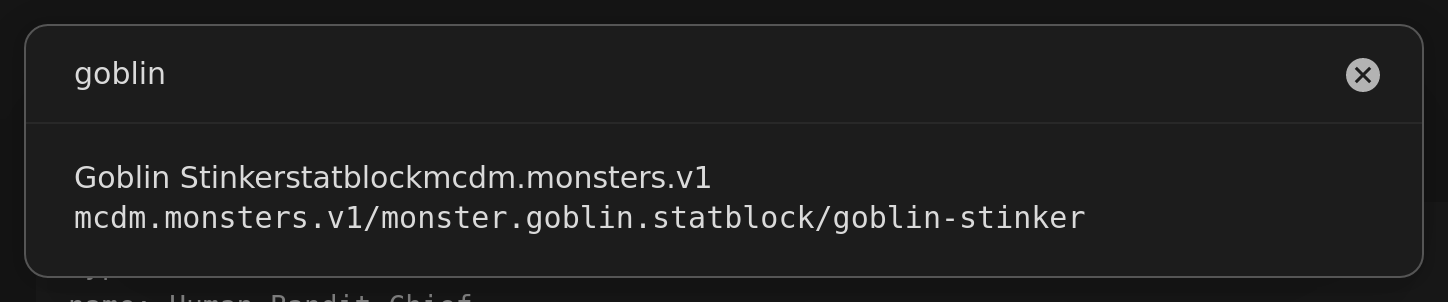
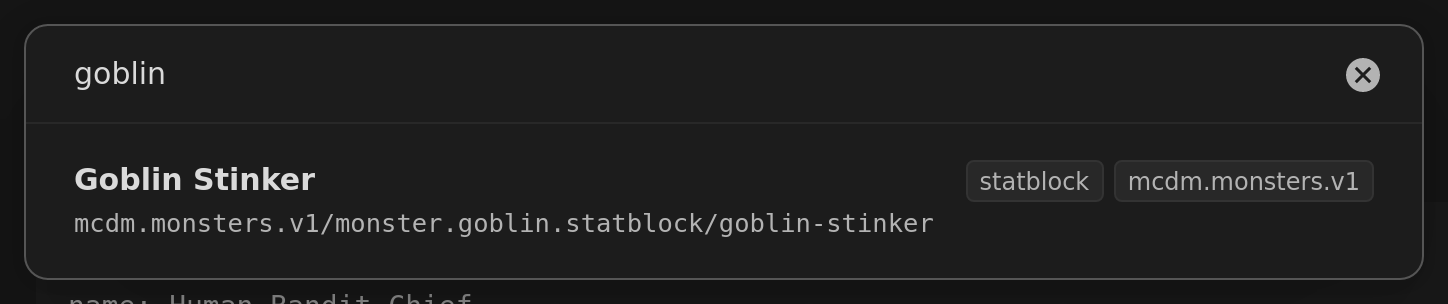
fix(authoring): give the compendium search rows a real layout (SC-159)
Every suggestion ran its three fields together into one string — the docs
screenshot caught "Goblin Stinkerstatblockmcdm.monsters.v1". The DOM was never
the problem: renderSuggestion already emitted name/type/source as separate
spans. There was simply NO CSS for `.dse-compendium-suggest*` anywhere in
styles-source.css, so they laid out as one inline run.

The row is now two lines: the name in its own head row (bold, prominent) with
type and source as muted chips pushed right, and the full SCC code underneath in
monospace. Chips are bordered all around — no colored left-edge spine (DESIGN.md
rule 7). Empty type/source are skipped so a hand-authored note can't render a
stray 2px pill.

The rules use OBSIDIAN'S OWN variables, not --dse-* tokens, and that is
load-bearing rather than sloppy. This modal extends SuggestModal directly, so it
sits outside both [data-dse-element] and .dse-modal — and the :root token block
does not reach it, because those tokens are authored as `var(--text-muted)` etc.
while Obsidian declares those on BODY, so at :root they are undefined and every
token computes to the guaranteed-invalid value. A first pass using tokens
rendered with no border, no chip background, un-muted text, and a
`font-family: var(--dse-font-mono)` that was invalid-at-computed-value and so
REPLACED the <code> element's UA monospace with the inherited sans — worse than
the bug being fixed. Diagnosed by probing computed styles in both color schemes
[…]

diff --git a/styles-source.css b/styles-source.css
@@ -1528,6 +1528,114 @@ code.dsa {
 	visibility: visible;
 }
 
+/* -- SC-159: the compendium search modal's suggestion rows -------------------- *
+   CompendiumSearchModal (src/authoring/CompendiumSearchModal.ts) shipped its row
+   markup with NO stylesheet behind it, so four block-less spans laid out as a single
+   inline run: a result read "Goblin Stinkerstatblockmcdm.monsters.v1". It is the first
+   modal a beginner opens (the Getting Started tutorial points at it) and the bug was
+   visible in a published docs screenshot, which is how it was found.
+
+   Deliberately UNSCOPED, and it uses OBSIDIAN'S OWN variables rather than --dse-*
+   tokens. Both of those are load-bearing, and the second one is the non-obvious part:
+
+     **--dse-* tokens do not resolve here.** This modal extends Obsidian's SuggestModal
+     directly, not the kit's DseModal, so it is neither inside a [data-dse-element] root
+     nor a .dse-modal, and nothing stamps data-dse-theme on it (managedModal.ts's WeakMap
+     lookup never runs). The :root token block does not save you: it is authored as
+     `--dse-fg-muted: var(--text-muted)` etc., and Obsidian declares --text-muted on
+     BODY, so at :root (= <html>) those references are undefined and every token computes
+     to the guaranteed-invalid value. Inheriting an invalid value is still invalid, so
+     `border: 1px solid var(--dse-border)` silently becomes NO border and
+     `color: var(--dse-fg-muted)` silently falls back to the inherited ink. Verified, not
+     assumed: an earlier draft of this block used tokens and rendered with zero border,
+     zero chip background, un-muted text, and — worst — a `font-family: var(--dse-font-mono)`
+     that was invalid-at-computed-value and therefore replaced the <code> element's UA
+     monospace default with the inherited sans face, making the row WORSE than before.
+     Element cards never hit this because the Steel block re-declares every token under
+     `:is([data-dse-element], .dse-modal)[data-dse-theme='steel']`, inside body's cascade.
+
+   Using the app's variables is also just correct for this surface: it is a native
+   suggester and should look like Obsidian's own search in whichever color scheme the
+   vault is using, not like a forged Steel card dropped into the command palette. Both
+   schemes were checked.
+
+   Screen-only chrome by construction: nothing inside a [data-dse-element] root, so no
+   print rule and no frozen shot can reach these classes.                          */
+
+.dse-compendium-suggest__head {
+	display: flex;
+	align-items: baseline;
+	gap: 0.75em;
+}
+
+/* The name carries the row. Everything else is support. */
+.dse-compendium-suggest__name {
+	flex: 1 1 auto;
+	min-width: 0;
+	font-weight: 600;
+	color: var(--text-normal);
+	overflow-wrap: anywhere;
+}
+
+/* Type + source, pushed right. `flex-wrap` so a long pair drops under the name on a
+   narrow modal instead of squeezing the name to nothing. */
+.dse-compendium-suggest__meta {
+	flex: 0 1 auto;
+	display: flex;
+	flex-wrap: wrap;
+	justify-content: flex-end;
+	gap: 0.35em;
+}
+
+/* Muted chips on the shared chip grammar (cf. .dse-stamina-rec__status). Border all
+   around, never a colored left-edge spine — DESIGN.md rule 7. */
+.dse-compendium-suggest__type,
+.dse-compendium-suggest__source {
+	display: inline-flex;
+	align-items: center;
+	padding: 0.05em 0.5em;
+	border: 1px solid var(--background-modifier-border);
+	border-radius: var(--radius-s, 4px);
+	background: var(--background-secondary);
+	color: var(--text-muted);
+	font-size: 0.8em;
+	line-height: 1.5;
+	white-space: nowrap;
+}
+/* No `font-family` here on purpose — twice over. Beyond the token problem above, an
+   earlier draft pinned var(--dse-font-label) and tripped steelTypography.test.ts:
+   SC-112's font-slot gate requires EVERY consumer of a widened slot to carry
+   :not([data-dse-print="on"]), and the suite finds "the Label rule" by taking the FIRST
+   rule in the sheet whose body sets that slot — which this one became, hijacking the
+   guard away from .dse-section__title. Inheriting is also simply correct: the font slots
+   are card typography, they are never stamped on this modal, and a chip in a native
+   suggester should wear the app's UI font like the rest of the palette. */
+
+/* Line 2: the precise identifier. Dimmest thing in the row — present for the user who
+   needs it, never competing with the name for the user who doesn't. */
+/* The <code> element already defaults to the UA monospace face; naming Obsidian's own
+   --font-monospace keeps it consistent with the rest of the app AND, unlike the --dse-*
+   slot, actually resolves here. */
+.dse-compendium-suggest__code {
+	display: block;
+	margin-top: 0.2em;
+	color: var(--text-muted);
+	font-family: var(--font-monospace);
+	font-size: 0.85em;
+	overflow-wrap: anywhere;
+}
+
+/* The empty-index CTA row (spec §4.2) — one title, one explanatory line. */
+.dse-compendium-suggest__title {
+	font-weight: 600;
+	color: var(--text-normal);
+}
+.dse-compendium-suggest__hint {
+	margin-top: 0.2em;
+	color: var(--text-muted);
+	font-size: 0.9em;
+}
+
 /* CustomizeConditionModal body: tools column beside the live preview. */
 .dse-cust {
 	display: flex;

diff --git a/test/dom/authoring/compendiumSearchModal.test.ts b/test/dom/authoring/compendiumSearchModal.test.ts
@@ -145,16 +145,74 @@ describe('CompendiumSearchModal (spec §4.2)', () => {
 		expect(document.body.contains((modal as any).containerEl)).toBe(false);
 	});
 
-	test('renderSuggestion shows name, type chip, source, and the bare code in a <code> element', () => {
+	// SC-159 — the row must be STRUCTURED, not one text run. The predecessor of this
+	// test asserted `el.textContent` contained each field, which is true of a correct row
+	// AND of the bug it shipped with: four unstyled inline spans rendering as
+	// "Panther" + "kit" + "mcdm.heroes.v1" with nothing between them (the real capture
+	// read "Goblin Stinkerstatblockmcdm.monsters.v1"). A textContent assertion cannot
+	// tell those apart, so this one goes element by element.
+	test('renderSuggestion puts name, type and source in DISTINCT elements, plus the bare code', () => {
 		const { app, index } = setup();
 		const modal = new CompendiumSearchModal(app as any, index, jest.fn());
 		const [entry] = modal.getSuggestions('panth');
 		const el = document.createElement('div');
 		modal.renderSuggestion(entry, el);
-		expect(el.textContent).toContain('Panther');
-		expect(el.textContent).toContain('kit');
-		expect(el.textContent).toContain('mcdm.heroes.v1');
-		expect(el.querySelector('code')?.textContent).toBe(KIT);
+
+		const name = el.querySelector('.dse-compendium-suggest__name');
+		const type = el.querySelector('.dse-compendium-suggest__type');
+		const source = el.querySelector('.dse-compendium-suggest__source');
+		const code = el.querySelector('code.dse-compendium-suggest__code');
+
+		// Each field owns a node, and that node holds EXACTLY its own field — no
+		// neighbour's text bleeding in.
+		expect(name?.textContent).toBe('Panther');
+		expect(type?.textContent).toBe('kit');
+		expect(source?.textContent).toBe('mcdm.heroes.v1');
+		expect(code?.textContent).toBe(KIT);
+
+		// Four separate nodes, not one (or two) doing double duty.
+		expect(new Set([name, type, source, code]).size).toBe(4);
+
+		// The specific regression: name and type are not siblings in one inline run —
+		// the chips live in their own meta container, which is what the stylesheet
+		// pushes to the right of the name.
+		const meta = el.querySelector('.dse-compendium-suggest__meta');
+		expect(meta).not.toBeNull();
+		expect(meta!.contains(type!)).toBe(true);
+		expect(meta!.contains(source!)).toBe(true);
+		expect(meta!.contains(name!)).toBe(false);
+
+		// The code is a LINE, not a trailing inline node: it is a sibling of the head
+		// row, not inside it.
+		const head = el.querySelector('.dse-compendium-suggest__head');
+		expect(head?.contains(name!)).toBe(true);
+		expect(head?.contains(code!)).toBe(false);
+		expect(code!.parentElement).toBe(el);
+	});
+
+	// The row is only readable because a stylesheet backs those class names — that is the
+	// entire fix. A rename on either side silently reinstates the run-together bug, so the
+	// contract is pinned across both files.
+	test('every class the row emits is actually styled in styles-source.css', () => {
+		const sheet = fs.readFileSync(path.join(__dirname, '../../../styles-source.css'), 'utf8');
+		const { app, index } = setup();
+		const modal = new CompendiumSearchModal(app as any, index, jest.fn());
+		const [entry] = modal.getSuggestions('panth');
+		const el = document.createElement('div');
+		modal.renderSuggestion(entry, el);
+
+		const emitted = new Set<string>();
+		for (const node of el.querySelectorAll('*')) {
+			for (const cls of Array.from(node.classList)) {
+				if (cls.startsWith('dse-compendium-suggest')) emitted.add(cls);
+			}
+		}
+		expect(emitted.size).toBeGreaterThan(0);
+		// `__head` and `__meta` are pure layout containers and are styled; every emitted
+		// class must appear as a selector somewhere in the sheet.
+		for (const cls of emitted) {
+			expect(sheet).toContain(`.${cls}`);
+		}
 	});
 
 	// SC-149: the snapshot command passes `filter` so only snapshottable families are

diff --git a/src/authoring/CompendiumSearchModal.ts b/src/authoring/CompendiumSearchModal.ts
@@ -106,10 +106,29 @@ export class CompendiumSearchModal extends SuggestModal<CompendiumEntry> {
 			});
 			return;
 		}
-		const row = el.createDiv({ cls: 'dse-compendium-suggest__row' });
-		row.createSpan({ cls: 'dse-compendium-suggest__name', text: entry.name });
-		row.createSpan({ cls: 'dse-compendium-suggest__type', text: entry.type });
-		row.createSpan({ cls: 'dse-compendium-suggest__source', text: entry.source });
+		// SC-159 — the four fields are a two-LINE layout, not four inline spans. Before
+		// this fix the row emitted exactly these nodes with no stylesheet behind them, so
+		// the browser laid them out as one inline run and a result read
+		// "Goblin Stinkerstatblockmcdm.monsters.v1". The DOM was never the problem; the
+		// missing CSS was. Both live together now — `.dse-compendium-suggest` in
+		// styles-source.css is the only thing that makes this readable, so if you rename a
+		// class here, rename it there.
+		//
+		// Line 1: the name (prominent) + type/source as muted chips, right-aligned.
+		// Line 2: the full SCC code, mono and dimmer — the precise identifier.
+		// The chips DO restate what the code's first two segments already say (source is
+		// literally `scc.slice(0, scc.indexOf('/'))`, see CompendiumIndex.sourceOf), and
+		// that repetition is the point: the code is long and easy to skim past, so the
+		// two facts you actually disambiguate on — is this a statblock or a feature, is it
+		// from monsters or heroes — get to be short, scannable, and in a fixed position.
+		const head = el.createDiv({ cls: 'dse-compendium-suggest__head' });
+		head.createSpan({ cls: 'dse-compendium-suggest__name', text: entry.name });
+		const meta = head.createDiv({ cls: 'dse-compendium-suggest__meta' });
+		// Guarded: a hand-authored note can carry a blank type or source, and an empty
+		// chip renders as a stray 2px pill rather than as nothing.
+		if (entry.type) meta.createSpan({ cls: 'dse-compendium-suggest__type', text: entry.type });
+		if (entry.source)
+			meta.createSpan({ cls: 'dse-compendium-suggest__source', text: entry.source });
 		el.createEl('code', { cls: 'dse-compendium-suggest__code', text: entry.scc });
 	}
 

diff --git a/CHANGELOG.md b/CHANGELOG.md
@@ -15,6 +15,13 @@ below ships as 7.0.0.
 Upgrading from 5.x or 6.0.1? See the [migration guide](docs/migrating-to-7.md)
 for what needs action.
 
+- [BUGFIX] **The compendium search modal is readable again** (SC-159). Every result
+  ran its name, type and source together into one unbroken string — a goblin listed
+  itself as "Goblin Stinkerstatblockmcdm.monsters.v1". The row now has a real layout:
+  the entry's name on its own line in bold, its type and source as two small muted
+  chips at the right, and the full compendium code underneath in a monospace face.
+  This is the first modal the Getting started tutorial sends you to, so it was also
+  the first thing a new user saw; the tutorial screenshot is regenerated.
 - **The documentation has tutorials** (SC-142). Six new guides sit on top of the
   reference pages: **Getting started** (install → sync → your first element → your
   first fight, assuming no YAML or markdown knowledge), **Run an encounter**,
